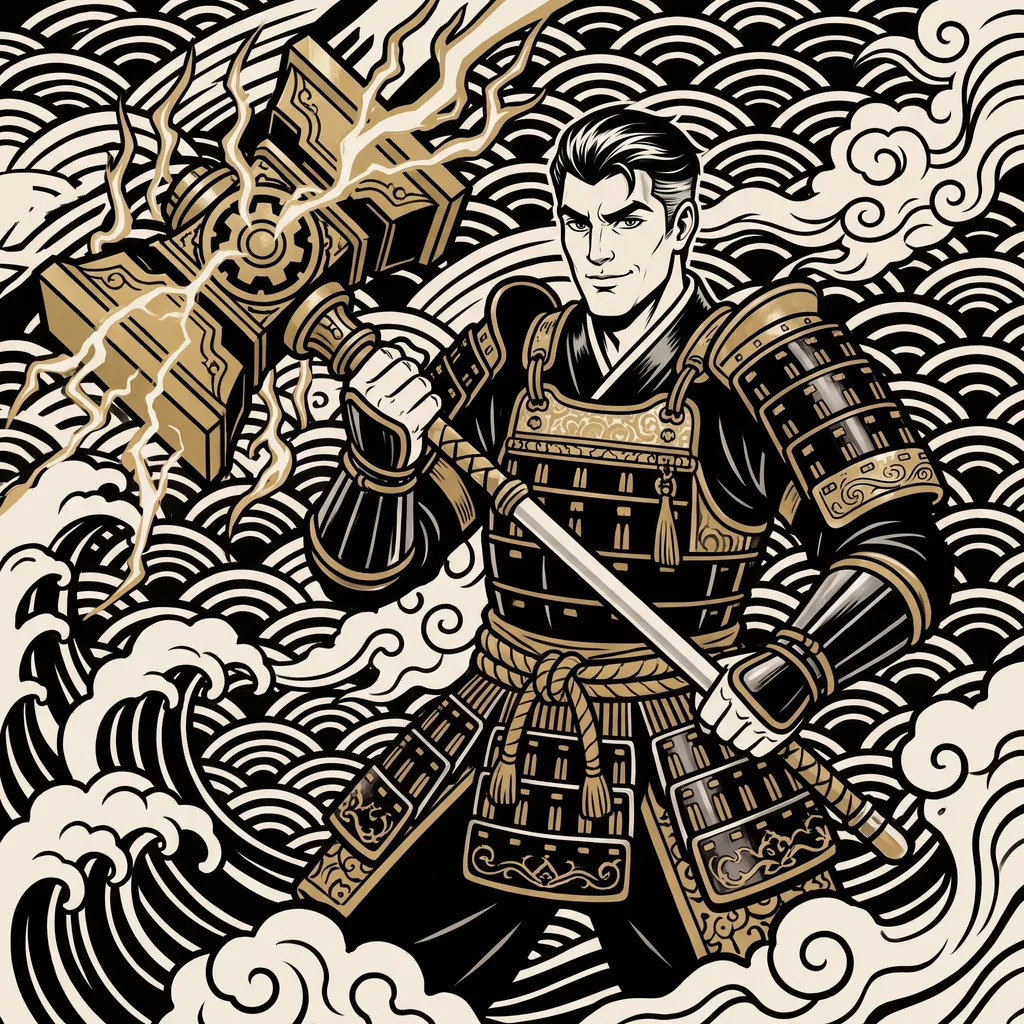
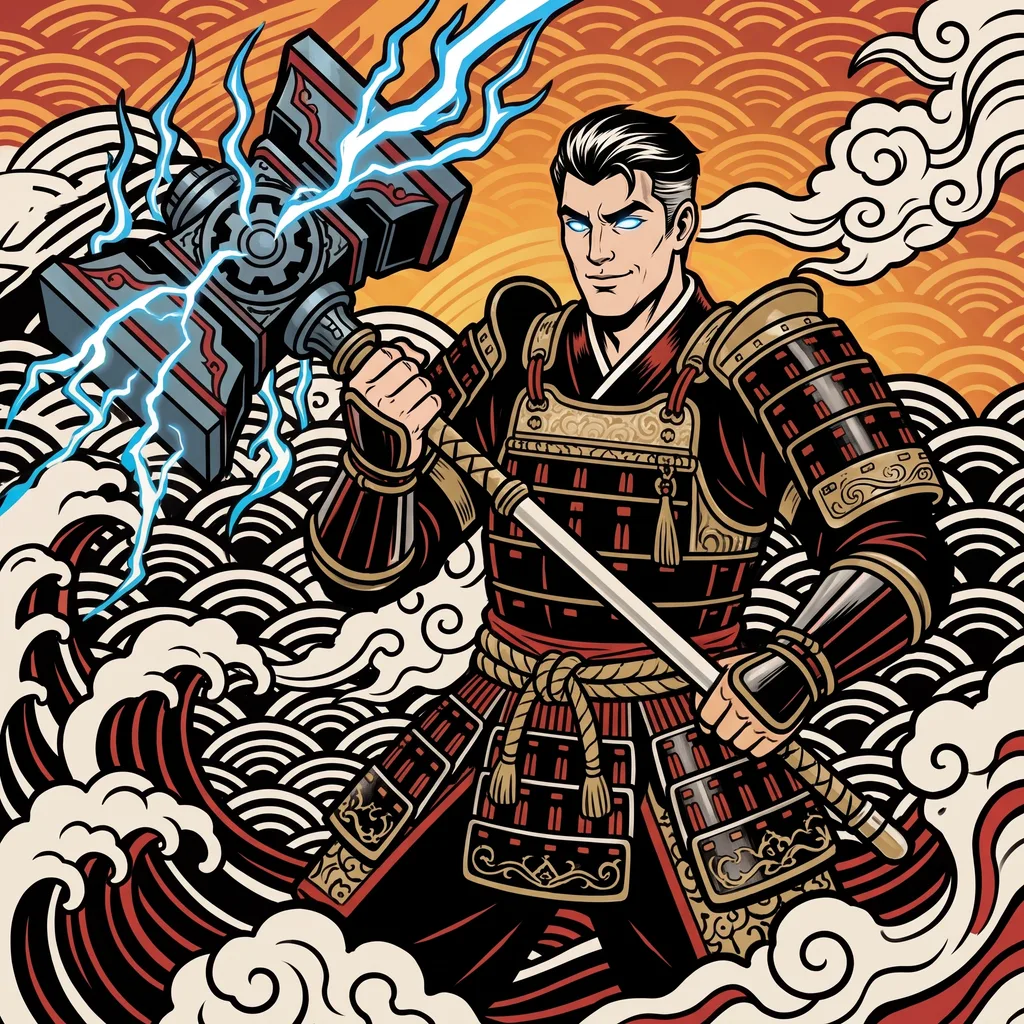
Cartas: las BOOST S+ a todo color y full art
Las cuatro BOOST S+ (MAKITAH, SONS, IGRID y LOLEX) estrenan dibujo a todo color; MAKITAH, El Titiritero, con hilos de marioneta. Carta full art: si hay un dibujo vertical en public/cartas/fullart/ID.webp, el catálogo lleva fullart y la carta se pinta a carta completa, sin la imagen del marco (.carta-g.fullart, en cqw). arte y marco no cambian.

diff --git a/public/gachapon/gachapon.css b/public/gachapon/gachapon.css
@@ -109,7 +109,7 @@ button.boton-secundario { background: transparent; font: inherit; font-weight: 7
   .cabeza-gacha { grid-template-columns: 1fr; }
   .sobre { width: min(220px, 60vw); }
   .album { grid-template-columns: repeat(auto-fill, minmax(140px, 1fr)); gap: 12px; }
-  .carta-g:not(.con-marco) .nick { font-size: 19px; }
+  .carta-g:not(.con-marco):not(.fullart) .nick { font-size: 19px; }
 }
 @media (prefers-reduced-motion: reduce) {
   .sobre, .volteable, .volteable .giro { transition: none; }
@@ -131,9 +131,9 @@ button.boton-secundario { background: transparent; font: inherit; font-weight: 7
 .hueco-ali .vacio-ali { display: grid; place-items: center; aspect-ratio: 5 / 7; border: 2px dashed var(--sumi-linea); border-radius: 8px; color: var(--hai); font-size: 14px; }
 .hueco-ali:not(:disabled):hover .vacio-ali { border-color: var(--hai); color: var(--washi); }
 /* Tamaños para la carta sin marco; con marco, todo va en proporción a su ancho (carta.css) */
-.hueco-ali .carta-g:not(.con-marco) .nick { font-size: 18px; }
-.hueco-ali .carta-g:not(.con-marco) .rareza { width: 32px; height: 32px; font-size: 19px; }
-.hueco-ali .carta-g:not(.con-marco) .logo { width: 30px; height: 28px; }
+.hueco-ali .carta-g:not(.con-marco):not(.fullart) .nick { font-size: 18px; }
+.hueco-ali .carta-g:not(.con-marco):not(.fullart) .rareza { width: 32px; height: 32px; font-size: 19px; }
+.hueco-ali .carta-g:not(.con-marco):not(.fullart) .logo { width: 30px; height: 28px; }
 .hueco-ali .puntos-ali { font-size: 13px; color: var(--hai); }
 .hueco-ali .boost-ali { font-size: 12px; font-weight: 700; color: var(--washi); overflow-wrap: anywhere; }
 .titulo-boost { margin: 26px 0 10px; font-family: var(--mincho); font-weight: 800; font-size: 20px; }
@@ -174,7 +174,7 @@ button.boton-secundario { background: transparent; font: inherit; font-weight: 7
 .elegir .opciones { display: grid; grid-template-columns: repeat(auto-fill, minmax(140px, 1fr)); gap: 12px; }
 .elegir .opcion { padding: 0; border: 0; background: none; cursor: pointer; border-radius: 8px; }
 .elegir .opcion[aria-pressed="true"] .carta-g { outline: 3px solid var(--washi); outline-offset: 3px; }
-.elegir .opcion .carta-g:not(.con-marco) .nick { font-size: 19px; }
+.elegir .opcion .carta-g:not(.con-marco):not(.fullart) .nick { font-size: 19px; }
 .elegir .sin-cartas { color: var(--hai); }
 .elegir .condicion-boost { grid-column: 1 / -1; margin: 0 0 4px; color: var(--hai); }
 .elegir .opcion-rol { display: flex; flex-direction: column; gap: 2px; padding: 14px 16px; border: 1px solid var(--sumi-linea); border-radius: 8px; background: var(--sumi); color: inherit; font: inherit; text-align: left; cursor: pointer; }
@@ -191,7 +191,7 @@ button.boton-secundario { background: transparent; font: inherit; font-weight: 7
   .tabla-puntos th:nth-child(3), .tabla-puntos td:nth-child(3) { display: none; }
 }
 .probabilidades .titulo-reglas { margin-top: 56px; }
-.hueco-ali .carta-g:not(.con-marco) .rol { white-space: nowrap; overflow: hidden; text-overflow: ellipsis; font-size: 12px; }
+.hueco-ali .carta-g:not(.con-marco):not(.fullart) .rol { white-space: nowrap; overflow: hidden; text-overflow: ellipsis; font-size: 12px; }
 
 /* ---------- Animaciones más fluidas ----------
    Las cartas salen del sobre en abanico, se levantan al girarlas, las boca abajo se asoman al pasar el ratón,

diff --git a/public/carta.css b/public/carta.css
@@ -46,3 +46,28 @@
 .carta-g.con-marco .cantidad { right: 9%; bottom: 7%; font-size: 6cqw; color: var(--tinta-marco); }
 .carta-g.con-marco.falta .marco { filter: grayscale(1) brightness(.55); }
 .carta-g.con-marco.falta .pie .nick, .carta-g.con-marco.falta .pie .rol, .carta-g.con-marco.falta .bonus { color: #4A443C; }
+
+/* ---------- Carta «full art» ----------
+   Las de mayor rango (de momento, las BOOST S+) llevan el dibujo a carta completa, sin la imagen del marco: un filo
+   de oro, el sello y el emblema arriba, y las estrellas, el nombre, lo que hace y el multiplicador abajo, sobre el
+   dibujo. El dibujo es public/cartas/fullart/ID.webp (1000×1400). Todo va en cqw para que escale sola, como la carta
+   con marco: en el álbum, en el overlay y en la portada. */
+.carta-g.fullart { container-type: inline-size; background: var(--sumi); }
+.carta-g.fullart:not(.falta) { box-shadow: 0 0 34px rgba(214, 170, 72, .6), 0 10px 22px rgba(0, 0, 0, .45); }
+.carta-g.fullart .velo { background: linear-gradient(180deg, rgba(22,20,18,.62) 0%, rgba(22,20,18,0) 18%, rgba(22,20,18,0) 56%, rgba(22,20,18,.94) 88%); }
+.carta-g.fullart::after { content: ''; position: absolute; inset: 2.4cqw; border: .8cqw solid #EBD28A; border-radius: 2.6cqw; pointer-events: none;
+  box-shadow: 0 0 0 .4cqw rgba(29, 26, 23, .8), inset 0 0 0 .4cqw rgba(29, 26, 23, .55); }
+.carta-g.fullart .rareza { top: 6cqw; left: 6cqw; width: 13cqw; height: 13cqw; font-size: 6.2cqw; }
+.carta-g.fullart .logo { top: 6cqw; right: 6cqw; width: 12.5cqw; height: 12.5cqw; }
+.carta-g.fullart .pie { left: 8cqw; right: 8cqw; bottom: 7.5cqw; }
+.carta-g.fullart .pie::before { font-size: 4cqw; letter-spacing: .9cqw; color: #EBD28A; text-shadow: 0 .3cqw .8cqw rgba(0, 0, 0, .9); }
+.carta-g.fullart[data-tier="SP"] .pie::before { content: '★★★★★★'; }
+.carta-g.fullart[data-tier="S"] .pie::before { content: '★★★★★'; }
+.carta-g.fullart[data-tier="A"] .pie::before { content: '★★★★'; }
+.carta-g.fullart[data-tier="B"] .pie::before { content: '★★★'; }
+.carta-g.fullart .nick { font-size: 10cqw; color: #F5EFE2; text-shadow: 0 .4cqw 1.4cqw rgba(0, 0, 0, .95); white-space: nowrap; overflow: hidden; text-overflow: ellipsis; }
+.carta-g.fullart .rol { font-size: 4.8cqw; font-weight: 700; letter-spacing: .06em; color: #EBD28A; text-shadow: 0 .3cqw .8cqw rgba(0, 0, 0, .9); }
+.carta-g.fullart .bonus { font-size: 4.8cqw; color: #F5EFE2; text-shadow: 0 .3cqw .8cqw rgba(0, 0, 0, .9); }
+.carta-g.fullart .cantidad { right: 8cqw; bottom: 8cqw; font-size: 6cqw; }
+.carta-g.fullart.falta::after { border-color: #6B665E; }
+.carta-g.fullart.falta .pie::before, .carta-g.fullart.falta .nick, .carta-g.fullart.falta .rol, .carta-g.fullart.falta .bonus { color: var(--hai); }

diff --git a/server/gacha.js b/server/gacha.js
@@ -161,9 +161,12 @@ async function cargarCampeones() {
 // Marcos de cada clase y tier en public/cartas/marcos/jugador/ y boost/ (TIER.webp; la S+ es SP) y el reverso,
 // igual para todas, en public/cartas/marcos/reverso.webp. Salen de diseno/marcos/. Mientras no estén, la carta
 // lleva el splash de su campeón, si no la imagen de su clan (o el sol partido si es BOOST), y el marco dibujado con CSS.
+// Carta «full art»: si además hay un dibujo vertical (1000×1400) en public/cartas/fullart/ID.webp, la carta se pinta
+// con él a carta completa en vez de con el marco (lo llevan las BOOST S+). El cuadrado sigue haciendo falta: es el
+// que usan las imágenes de compartir.
 // La dirección lleva la fecha del archivo: se puede guardar en caché y, si cambia el dibujo, cambia la dirección.
 const EXTENSIONES = ['.webp', '.png', '.jpg', '.jpeg'];
-let artes = new Map(), marcos = { jugador: new Map(), boost: new Map() }, reverso = null;
+let artes = new Map(), completas = new Map(), marcos = { jugador: new Map(), boost: new Map() }, reverso = null;
 
 async function indiceImagenes(carpeta, prefijo) {
   let archivos = [];
@@ -182,10 +185,12 @@ async function indiceImagenes(carpeta, prefijo) {
 async function cargarCartas() {
   await Promise.all([cargarBoosts(), cargarCampeones()]);
   const carpeta = path.join(CARPETA_ARTE, 'marcos');
-  const [a, jugador, boost, sueltos] = await Promise.all([indiceImagenes(CARPETA_ARTE, '/cartas/'),
+  const [a, full, jugador, boost, sueltos] = await Promise.all([indiceImagenes(CARPETA_ARTE, '/cartas/'),
+    indiceImagenes(path.join(CARPETA_ARTE, 'fullart'), '/cartas/fullart/'),
     indiceImagenes(path.join(carpeta, 'jugador'), '/cartas/marcos/jugador/'), indiceImagenes(path.join(carpeta, 'boost'), '/cartas/marcos/boost/'),
     indiceImagenes(carpeta, '/cartas/marcos/')]);
   artes = a;
+  completas = full;
   marcos = { jugador, boost };
   reverso = sueltos.get('REVERSO') || null;
 }
@@ -204,7 +209,7 @@ export const reversoCarta = () => reverso;
 export function catalogo() {
   const jugadores = vistaTierlist().jugadores.filter(j => j.nombre && j.tier).map(j => ({ ...j, tipo: 'jugador' }));
   return [...boosts, ...jugadores].map(c => ({ ...c, campeon: campeones.get(c.id) || null }))
-    .map(c => ({ ...c, arte: arteDe(c), marco: marcoDe(c), peso: PESOS[c.tier] }));
+    .map(c => ({ ...c, arte: arteDe(c), fullart: completas.get(c.id) || null, marco: marcoDe(c), peso: PESOS[c.tier] }));
 }
 
 // Probabilidad de que una carta cualquiera del sobre sea de cada tier

diff --git a/public/carta.js b/public/carta.js
@@ -12,14 +12,16 @@ export const EMBLEMA_BOOST = '/marca/koryu-budo.png';
 export const emblemaDe = c => (c.clan ? logo(c.clan) : c.tipo === 'boost' ? EMBLEMA_BOOST : null);
 
 // El arte es el dibujo de la carta si ya existe (si no, el splash de su campeón o la imagen del clan) y el marco,
-// el de su clase y tier. cantidad: null (no se enseña), 0 (no la tiene: sale apagada) o cuántas copias tiene
+// el de su clase y tier. Si la carta tiene dibujo «full art» (c.fullart, vertical), va a carta completa y sin marco:
+// es como destacan las de mayor rango. cantidad: null (no se enseña), 0 (no la tiene: sale apagada) o cuántas copias tiene
 export function cartaHTML(c, { cantidad = null, nombreClan = id => id } = {}) {
   const falta = cantidad === 0, k = claveTier(c.tier), boost = c.tipo === 'boost', emblema = emblemaDe(c);
+  const completa = Boolean(c.fullart), marco = completa ? null : c.marco;
   const quien = boost ? escapar(c.subtitulo) : `${ROL[c.rol] || c.rol} de ${escapar(nombreClan(c.clan))}`;
   // Las BOOST llevan su multiplicador bajo el apodo y la frase entera al pasar el ratón
-  return `<div class="carta-g${falta ? ' falta' : ''}${c.marco ? ' con-marco' : ''}${boost ? ' boost' : ''}" data-tier="${k}" style="--color-tier: var(--tier-${k})"${c.bonus ? ` title="${escapar(c.bonus.texto)}"` : ''}>
-    <img class="arte" src="${escapar(c.arte || `/clanes/${c.clan}.jpg`)}" alt="" loading="lazy"><span class="velo"></span>
-    ${c.marco ? `<img class="marco" src="${escapar(c.marco)}" alt="" loading="lazy">` : ''}
+  return `<div class="carta-g${falta ? ' falta' : ''}${marco ? ' con-marco' : ''}${completa ? ' fullart' : ''}${boost ? ' boost' : ''}" data-tier="${k}" style="--color-tier: var(--tier-${k})"${c.bonus ? ` title="${escapar(c.bonus.texto)}"` : ''}>
+    <img class="arte" src="${escapar(c.fullart || c.arte || `/clanes/${c.clan}.jpg`)}" alt="" loading="lazy"><span class="velo"></span>
+    ${marco ? `<img class="marco" src="${escapar(marco)}" alt="" loading="lazy">` : ''}
     <span class="hanko rareza" title="Tier ${c.tier}">${c.tier}</span>${emblema ? `<img class="logo" src="${emblema}" alt="">` : ''}
     <div class="pie"><b class="nick">${escapar(c.nombre)}</b><span class="rol">${quien}</span>${c.bonus ? `<b class="bonus">${escapar(c.bonus.etiqueta)}</b>` : ''}</div>
     ${cantidad > 1 ? `<span class="cantidad" title="La tienes repetida">×${cantidad}</span>` : ''}

diff --git a/test/cartas.test.js b/test/cartas.test.js
@@ -44,6 +44,9 @@ before(async () => {
   await writeFile(path.join(cartas, 'marcos', 'jugador', 'C.webp'), 'webp');
   await writeFile(path.join(cartas, 'marcos', 'boost', 'SP.webp'), 'webp');
   await writeFile(path.join(cartas, 'marcos', 'reverso.webp'), 'webp');
+  // Dibujo «full art» (vertical) de una BOOST; el de la carpeta fullart no cuenta como dibujo cuadrado
+  await mkdir(path.join(cartas, 'fullart'), { recursive: true });
+  await writeFile(path.join(cartas, 'fullart', 'boost-kami.webp'), 'webp');
 
   for (const k of Object.keys(process.env)) if (/^(GOOGLE_)/.test(k)) delete process.env[k];
   Object.assign(process.env, { CARPETA_DATOS: carpeta, ARCHIVO_PLANTILLAS: path.join(carpeta, 'plantillas.json'),
@@ -114,6 +117,16 @@ test('marcos por clase y tier, sin mezclar: la S de Jugador no usa uno de BOOST 
   assert.equal(cat.get('KAIJU-TOP').marco, null, 'la S de Jugador aún no tiene marco');
   assert.equal(cat.get('BOOST-TENGU').marco, null, 'la S de BOOST tampoco');
   assert.equal(g.claveTier('S+'), 'SP');
+});
+
+test('carta «full art»: solo la que tiene dibujo vertical en fullart/, y conserva su dibujo cuadrado y su marco', () => {
+  const cat = porId();
+  const kami = cat.get('BOOST-KAMI');
+  assert.match(kami.fullart, /^\/cartas\/fullart\/boost-kami\.webp\?v=[0-9a-z]+$/);
+  assert.equal(kami.arte, '/ddragon/splash/Ornn.jpg', 'el fondo cuadrado no cambia: lo usan las imágenes de compartir');
+  assert.match(kami.marco, /^\/cartas\/marcos\/boost\/SP\.webp\?v=/, 'el marco tampoco');
+  assert.equal(cat.get('BOOST-TENGU').fullart, null);
+  assert.equal(cat.get('KAIJU-TOP').fullart, null, 'un dibujo cuadrado no es full art');
 });
 
 test('el reverso es el mismo para todas las cartas', () => {

diff --git a/PROGRESO.md b/PROGRESO.md
@@ -153,3 +153,11 @@ Todo está en commits locales en master; no se ha hecho push para no cambiar la 
 - Los originales en 2K no están en el repositorio: `koryu-budo/gachapón/`. El método, los prompts y el script que los convierte, en `koryu-budo/flow/cartas/`.
 - Comprobado en local con las 20 cartas dentro de su marco (ninguna imagen rota). Subido a GitHub el 04/10.
 - Pendiente: los otros 12 clanes no tienen jugadores, tier ni campeón, así que no tienen carta ni dibujo.
+
+## 04/10 (noche): las BOOST S+ a todo color y «full art»
+
+- Decisión del usuario: las cartas de mayor rango destacan progresivamente, sobre todo las BOOST. Las de jugador se quedan con el estilo sobrio (tinta, hueso y el color del clan). Las cuatro BOOST S+ (MAKITAH, SONS, IGRID y LOLEX) tienen dibujo nuevo a todo color; MAKITAH, «El Titiritero», lleva hilos de marioneta. GYPSICUACK (S) sigue en tinta y oro.
+- **Carta «full art»**: si una carta tiene un dibujo vertical en `public/cartas/fullart/<ID>.webp` (1000×1400), el catálogo lleva `fullart` y `cartaHTML` la pinta a carta completa, sin la imagen del marco: filo de oro, sello y emblema arriba, y estrellas, nombre, apodo y multiplicador abajo sobre el dibujo (`.carta-g.fullart` en `public/carta.css`, todo en cqw para que escale sola). `arte` (el cuadrado) y `marco` no cambian. De momento solo las cuatro S+; vale para cualquier carta con solo poner su archivo.
+- En `public/gachapon/gachapon.css`, los tamaños fijos de la carta sin marco van con `:not(.con-marco):not(.fullart)`.
+- Comprobado en local a 84, 142, 170, 300 y 380 px, y apagada (cuando no se tiene). 75 pruebas.
+- Pendiente: las imágenes para Discord (`public/compartir.js`) siguen pintando estas cuatro con marco y el dibujo cuadrado.
